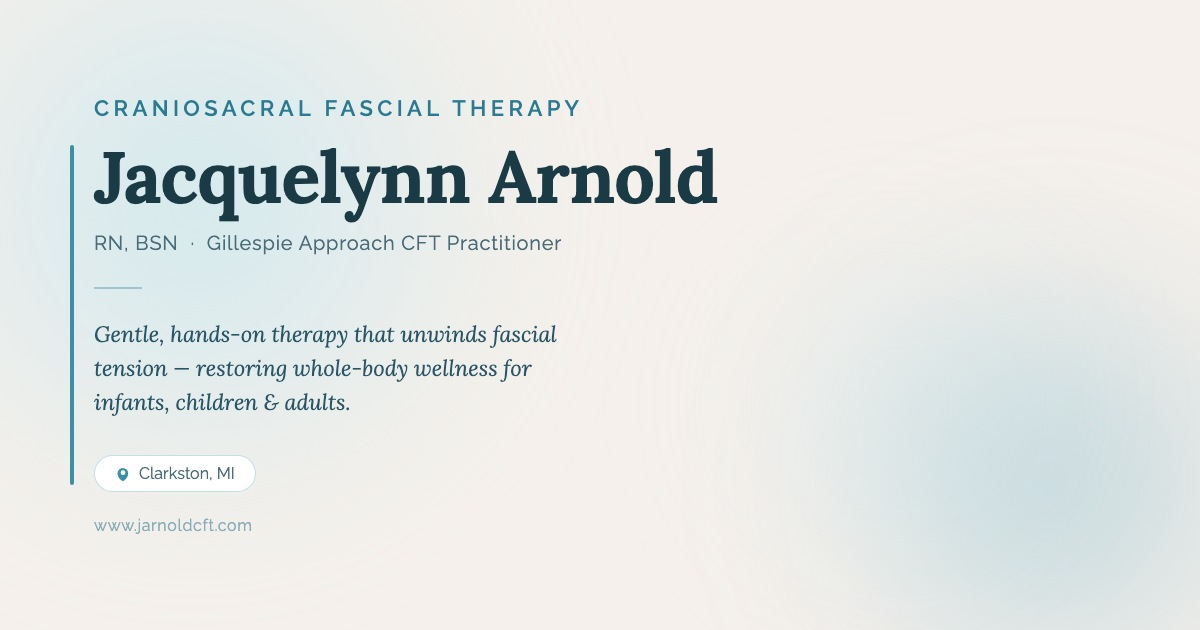
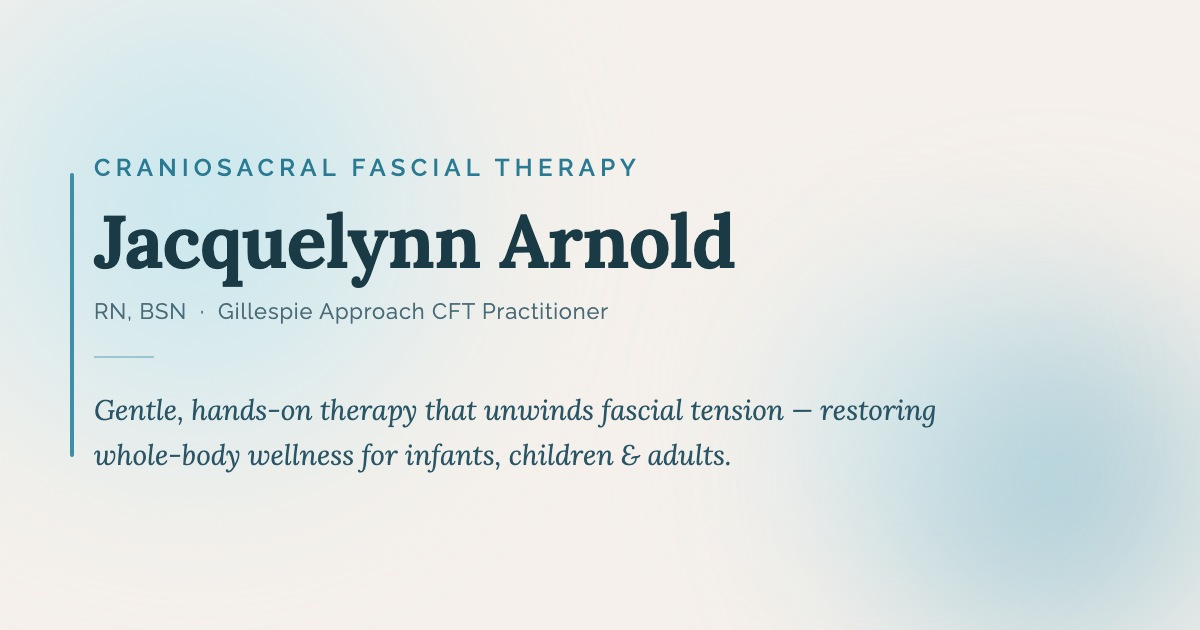
Update social card: remove location/URL, richer background colors, tighter layout

diff --git a/images/social-card.html b/images/social-card.html
@@ -28,43 +28,43 @@
   .hero-blob-1 {
     width: 750px; height: 650px;
     top: -120px; left: -180px;
-    background: radial-gradient(circle, rgba(184, 228, 240, 0.62) 0%, transparent 70%);
+    background: radial-gradient(circle, rgba(184, 228, 240, 0.85) 0%, transparent 70%);
   }
   .hero-blob-2 {
     width: 560px; height: 500px;
     bottom: -100px; right: -130px;
-    background: radial-gradient(circle, rgba(107, 175, 198, 0.42) 0%, transparent 70%);
+    background: radial-gradient(circle, rgba(107, 175, 198, 0.65) 0%, transparent 70%);
   }
   .hero-blob-3 {
     width: 400px; height: 360px;
     top: 35%; left: 58%;
-    background: radial-gradient(circle, rgba(200, 232, 240, 0.32) 0%, transparent 70%);
+    background: radial-gradient(circle, rgba(200, 232, 240, 0.52) 0%, transparent 70%);
   }
 
   /* Content */
   .content {
     position: absolute;
     left: 70px; top: 0; bottom: 0;
-    width: 700px;
+    width: 900px;
     display: flex;
     flex-direction: column;
     justify-content: center;
-    padding: 60px 0;
+    padding: 30px 0;
   }
 
   .eyebrow {
     font-family: 'Raleway', sans-serif;
-    font-size: 22px;
+    font-size: 24px;
     font-weight: 600;
-    letter-spacing: 0.2em;
+    letter-spacing: 0.22em;
     text-transform: uppercase;
     color: #2a7a94;
-    margin-bottom: 20px;
+    margin-bottom: 22px;
   }
 
   .left-bar {
     position: absolute;
-    left: 0; top: 50px; bottom: 50px;
+    left: 0; top: 20px; bottom: 20px;
     width: 4px;
     background: #3D8FA8;
     border-radius: 2px;
@@ -72,17 +72,17 @@
 
   .name {
     font-family: 'Lora', serif;
-    font-size: 72px;
+    font-size: 74px;
     font-weight: 700;
     color: #1a3a45;
     line-height: 1.0;
-    margin-bottom: 18px;
+    margin-bottom: 20px;
     letter-spacing: -0.01em;
   }
 
   .subtitle {
     font-family: 'Raleway', sans-serif;
-    font-size: 20px;
+    font-size: 22px;
     font-weight: 400;
     color: #4A6B78;
     margin-bottom: 32px;
@@ -90,42 +90,20 @@
   }
 
   .divider {
-    width: 48px;
+    width: 60px;
     height: 2px;
     background: rgba(61, 143, 168, 0.4);
-    margin-bottom: 28px;
+    margin-bottom: 30px;
   }
 
   .tagline {
     font-family: 'Lora', serif;
-    font-size: 22px;
+    font-size: 28px;
     font-style: italic;
     color: #2a5566;
-    line-height: 1.55;
-    margin-bottom: 36px;
-    max-width: 560px;
+    line-height: 1.6;
   }
 
-  .location-badge {
-    display: inline-flex;
-    align-items: center;
-    gap: 8px;
-    background: white;
-    border: 1px solid rgba(107, 175, 198, 0.4);
-    border-radius: 40px;
-    padding: 8px 20px;
-    font-size: 16px;
-    color: #4A6B78;
-    margin-bottom: 24px;
-    width: fit-content;
-  }
-  .location-badge svg { width: 16px; height: 16px; color: #3D8FA8; }
-
-  .url {
-    font-size: 16px;
-    color: #8aabb8;
-    letter-spacing: 0.04em;
-  }
 </style>
 <link href="https://fonts.googleapis.com/css2?family=Lora:ital,wght@0,400;0,600;0,700;1,400;1,600&family=Raleway:wght@300;400;500;600;700&display=swap" rel="stylesheet">
 </head>
@@ -144,14 +122,7 @@
       <div class="name">Jacquelynn Arnold</div>
       <div class="subtitle">RN, BSN &nbsp;·&nbsp; Gillespie Approach CFT Practitioner</div>
       <div class="divider"></div>
-      <div class="tagline">Gentle, hands-on therapy that unwinds fascial<br>tension — restoring whole-body wellness for<br>infants, children &amp; adults.</div>
-      <div class="location-badge">
-        <svg viewBox="0 0 24 24" fill="currentColor" style="color:#3D8FA8;">
-          <path fill-rule="evenodd" d="M11.54 22.351l.07.04.028.016a.76.76 0 00.723 0l.028-.015.071-.041a16.975 16.975 0 001.144-.742 19.58 19.58 0 002.683-2.282c1.944-2.003 3.5-4.697 3.5-8.327a8 8 0 10-16 0c0 3.63 1.556 6.326 3.5 8.327a19.583 19.583 0 002.682 2.282 16.975 16.975 0 001.145.742zM12 13.5a3.5 3.5 0 100-7 3.5 3.5 0 000 7z" clip-rule="evenodd"/>
-        </svg>
-        Clarkston, MI
-      </div>
-      <div class="url">www.jarnoldcft.com</div>
+      <div class="tagline">Gentle, hands-on therapy that unwinds fascial tension — restoring whole-body wellness for infants, children &amp; adults.</div>
     </div>
   </div>
 
